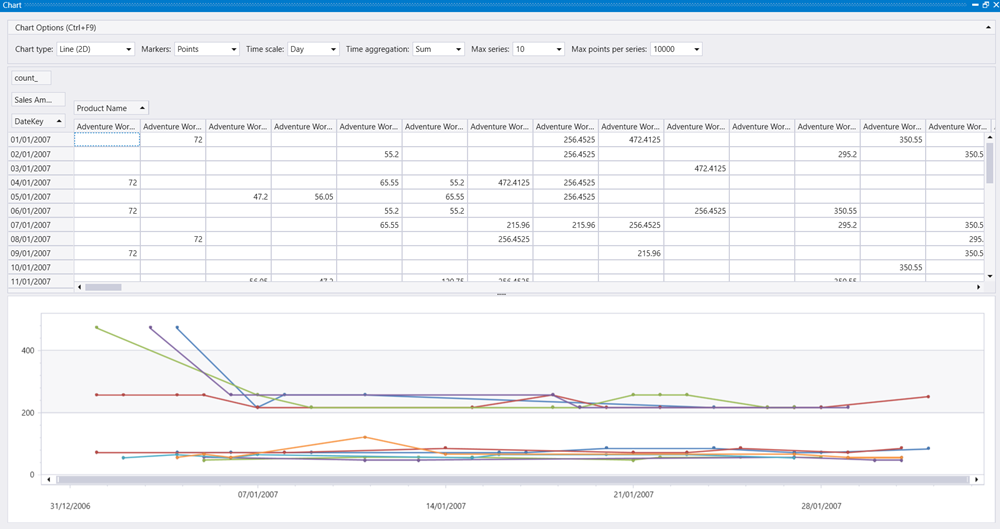
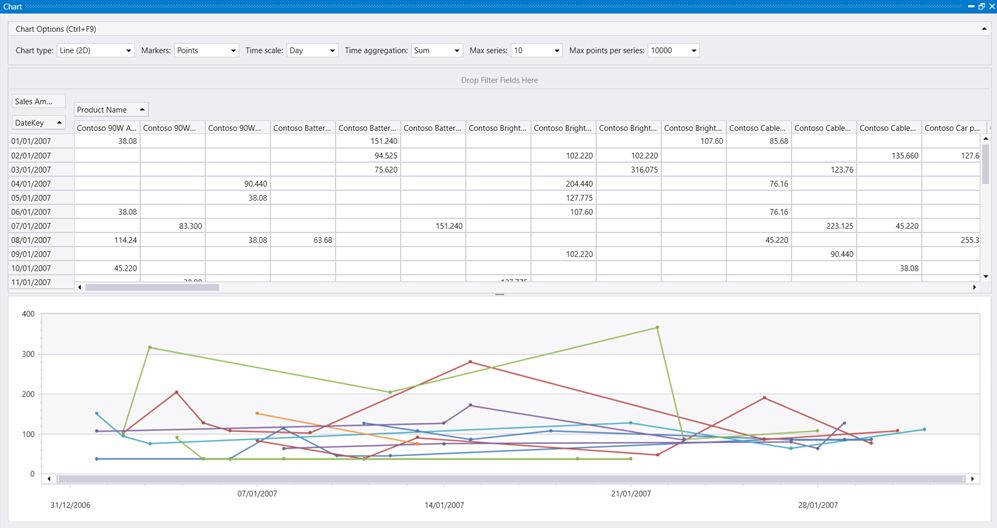
Changes

diff --git a/data-explorer/kusto/query/visualization-pivotchart.md b/data-explorer/kusto/query/visualization-pivotchart.md
@@ -55,10 +55,10 @@ All properties are optional.
 ```kusto
 SalesFact
 | join kind= inner Products on ProductKey
-| where ProductCategoryName contains "Computers"
+| where ProductCategoryName has "Computers" and ProductName has "Contoso"
 | where DateKey between (datetime(2006-12-31) .. datetime(2007-02-01))
-| summarize count() by SalesAmount, ProductName, DateKey
-| render pivotchart 
+| project SalesAmount, ProductName, DateKey
+| render pivotchart
 ```
 
 :::image type="content" source="images/visualize-pivotchart/visualization-pivotchart.png" alt-text="Screenshot of query result showing a pivot chart visualization."  lightbox="images/visualize-pivotchart/visualization-pivotchart.png":::
